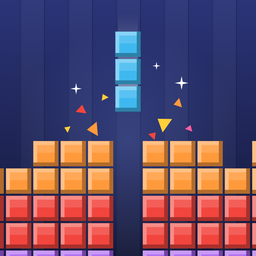
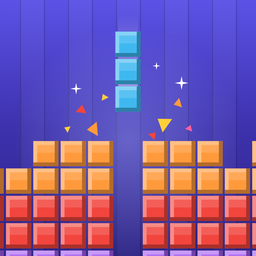
Restyle the site to match the game's new look
Violet sky, rounded Fredoka/Nunito type, yellow pill buttons and the new
icon and splash art. Updated feature list (Daily Dig, helpers, bombs) and
the list of things the game stores on the phone.

diff --git a/style.css b/style.css
@@ -1,78 +1,90 @@
-/* Alvan's Studio: deep navy "night dig" look from Block Crumble's Candy style. One dark theme by choice. */
+/* Alvan's Studio: the same cute look as Block Crumble. Bright violet sky, frosted rounded cards,
+   sunny yellow accents, rounded Fredoka/Nunito type. One bright theme by choice. */
 :root {
-  --bg: #151940;
-  --bg-2: #1d2356;
-  --panel: #232a63;
-  --line: #343d82;
-  --fg: #eef0ff;
-  --muted: #aab0dc;
+  --sky-top: #5b52e6;
+  --sky-mid: #3d31ad;
+  --bg: #2c2484;
+  --card: rgba(255,255,255,.12);
+  --card-strong: rgba(255,255,255,.2);
+  --line: rgba(255,255,255,.28);
+  --fg: #ffffff;
+  --muted: rgba(255,255,255,.78);
   --gold: #ffd84d;
-  --orange: #ff9a3c;
-  --red: #f2453d;
-  --purple: #a65cf0;
-  --font-display: 'Silkscreen', 'Courier New', monospace;
-  --font-body: 'Chakra Petch', 'Segoe UI', system-ui, sans-serif;
+  --gold-dark: #d1870f;
+  --pink: #ff6a9c;
+  --font-display: 'Fredoka', 'Nunito', system-ui, sans-serif;
+  --font-body: 'Nunito', system-ui, sans-serif;
   color-scheme: dark;
 }
 *, *::before, *::after { box-sizing: border-box; }
 html { background: var(--bg); }
 body {
-  margin: 0; min-height: 100vh; color: var(--fg); font: 16px/1.6 var(--font-body);
-  background: linear-gradient(180deg, var(--bg-2) 0%, var(--bg) 420px) var(--bg);
+  margin: 0; min-height: 100vh; color: var(--fg); font: 600 16px/1.6 var(--font-body);
+  background:
+    radial-gradient(110% 50% at 50% 0%, rgba(150,160,255,.5) 0%, rgba(150,160,255,0) 60%),
+    linear-gradient(180deg, var(--sky-top) 0%, var(--sky-mid) 420px, var(--bg) 900px) var(--bg);
 }
-a { color: var(--gold); }
-a:focus-visible, button:focus-visible { outline: 2px solid var(--gold); outline-offset: 3px; }
+a { color: var(--gold); font-weight: 800; }
+a:focus-visible, button:focus-visible { outline: 3px solid var(--gold); outline-offset: 3px; border-radius: 6px; }
 .wrap { max-width: 760px; margin: 0 auto; padding-left: max(16px, env(safe-area-inset-left, 0px)); padding-right: max(16px, env(safe-area-inset-right, 0px)); }
 
-header.site { padding-block: 18px; border-bottom: 1px solid var(--line); }
+header.site { padding-block: 16px; }
 header.site .wrap { display: flex; align-items: center; justify-content: space-between; gap: 16px; flex-wrap: wrap; }
-.logo { font: 700 18px var(--font-display); color: var(--fg); text-decoration: none; letter-spacing: .04em; }
+.logo { font: 700 21px var(--font-display); color: var(--fg); text-decoration: none; text-shadow: 0 2px 0 rgba(0,0,0,.18); }
 .logo span { color: var(--gold); }
-nav.site { display: flex; gap: 18px; font-size: 14px; }
-nav.site a { color: var(--muted); text-decoration: none; }
-nav.site a:hover, nav.site a[aria-current="page"] { color: var(--fg); }
+nav.site { display: flex; gap: 6px; font-size: 14px; }
+nav.site a { color: var(--fg); text-decoration: none; font-weight: 800; padding: 6px 12px; border-radius: 999px; background: var(--card); }
+nav.site a:hover { background: var(--card-strong); }
+nav.site a[aria-current="page"] { background: var(--gold); color: #4a2c00; }
 
-main { padding-block: 40px 56px; }
-h1, h2, h3 { font-family: var(--font-display); font-weight: 700; line-height: 1.15; text-wrap: balance; letter-spacing: .02em; }
-h1 { font-size: clamp(28px, 6vw, 44px); margin: 0 0 12px; }
-h2 { font-size: 20px; margin: 36px 0 8px; color: var(--gold); }
-h3 { font-size: 15px; margin: 22px 0 6px; }
+main { padding-block: 32px 56px; }
+h1, h2, h3 { font-family: var(--font-display); font-weight: 700; line-height: 1.1; text-wrap: balance; }
+h1 { font-size: clamp(34px, 8vw, 54px); margin: 0 0 12px; text-shadow: 0 4px 0 rgba(0,0,0,.16); }
+h1 .hl { color: var(--gold); }
+h2 { font-size: 24px; margin: 36px 0 10px; color: var(--gold); }
+h3 { font-size: 17px; margin: 22px 0 6px; }
 p, li { max-width: 65ch; }
 .lead { font-size: 18px; color: var(--muted); margin-top: 0; }
-.eyebrow { font: 700 12px var(--font-display); color: var(--orange); letter-spacing: .12em; text-transform: uppercase; margin: 0 0 8px; }
+.eyebrow { display: inline-block; font: 800 12px var(--font-body); letter-spacing: .12em; text-transform: uppercase; margin: 0 0 12px; padding: 4px 12px; border-radius: 999px; background: var(--card); color: var(--gold); }
 
-/* the layered "wall" strip: the studio's signature detail */
-.strata { height: 18px; display: grid; grid-template-columns: repeat(16, 1fr); gap: 2px; margin-block: 28px; }
-.strata i { display: block; border-radius: 2px; background: var(--c); box-shadow: inset 0 3px 0 rgba(255,255,255,.25), inset 0 -3px 0 rgba(0,0,0,.25); }
+/* a strip of candy blocks: the studio's signature detail */
+.strata { height: 22px; display: grid; grid-template-columns: repeat(16, 1fr); gap: 3px; margin-block: 28px; }
+.strata i { display: block; border-radius: 5px; background: var(--c); box-shadow: inset 0 4px 0 rgba(255,255,255,.3), inset 0 -4px 0 rgba(0,0,0,.2); }
 .strata i.gap { background: transparent; box-shadow: none; }
 
 .game {
   display: grid; grid-template-columns: 112px minmax(0, 1fr); gap: 20px; align-items: center;
-  background: var(--panel); border-radius: 14px; padding: 18px; text-decoration: none; color: var(--fg);
-  box-shadow: 0 0 0 1px var(--line);
+  background: var(--card); border-radius: 26px; padding: 18px; text-decoration: none; color: var(--fg);
+  box-shadow: inset 0 1px 0 rgba(255,255,255,.2), 0 14px 30px rgba(15,5,70,.3);
+  transition: transform .15s;
 }
-.game:hover { box-shadow: 0 0 0 2px var(--gold); }
-.game img { width: 112px; height: 112px; border-radius: 24px; }
+.game:hover { transform: translateY(-2px); background: var(--card-strong); }
+.game img { width: 112px; height: 112px; border-radius: 26px; box-shadow: 0 6px 16px rgba(0,0,0,.3); }
 .game h2 { margin: 0 0 4px; color: var(--fg); }
 .game p { margin: 0; color: var(--muted); }
-.tag { display: inline-block; font: 700 11px var(--font-display); letter-spacing: .08em; padding: 3px 8px; border-radius: 4px; background: var(--gold); color: #2a1d05; margin-top: 10px; }
+.tag {
+  display: inline-block; font: 700 13px var(--font-display); letter-spacing: .03em; padding: 6px 14px; border-radius: 999px;
+  background: linear-gradient(180deg, #ffe678, #ffc43d); color: #4a2c00; box-shadow: 0 3px 0 var(--gold-dark); margin-top: 12px;
+}
 
-.hero { display: grid; grid-template-columns: minmax(0, 1fr) 210px; gap: 32px; align-items: center; }
-.hero img { width: 100%; border-radius: 18px; box-shadow: 0 18px 40px rgba(0,0,0,.45); }
-.facts { display: grid; grid-template-columns: repeat(auto-fit, minmax(150px, 1fr)); gap: 12px; padding: 0; list-style: none; }
-.facts li { background: var(--panel); border-radius: 10px; padding: 12px 14px; box-shadow: 0 0 0 1px var(--line); }
-.facts b { display: block; font: 700 12px var(--font-display); color: var(--gold); letter-spacing: .06em; margin-bottom: 2px; }
+.hero { display: grid; grid-template-columns: minmax(0, 1fr) 220px; gap: 32px; align-items: center; }
+.hero img { width: 100%; border-radius: 28px; box-shadow: 0 18px 40px rgba(10,0,60,.45); }
+.facts { display: grid; grid-template-columns: repeat(auto-fit, minmax(160px, 1fr)); gap: 12px; padding: 0; list-style: none; }
+.facts li { background: var(--card); border-radius: 20px; padding: 14px 16px; box-shadow: inset 0 1px 0 rgba(255,255,255,.18); color: var(--muted); }
+.facts b { display: block; font: 700 17px var(--font-display); color: var(--fg); margin-bottom: 2px; }
+.facts b i { font-style: normal; margin-right: 4px; }
 
-.policy h2 { font-size: 17px; }
+.policy h2 { font-size: 20px; }
 .policy .meta { color: var(--muted); font-size: 14px; }
-.callout { background: var(--panel); border-left: 4px solid var(--gold); border-radius: 6px; padding: 12px 16px; margin-block: 18px; }
+.callout { background: var(--card); border-radius: 20px; padding: 14px 18px; margin-block: 18px; box-shadow: inset 4px 0 0 var(--gold); }
 
-footer.site { border-top: 1px solid var(--line); padding-block: 22px 32px; color: var(--muted); font-size: 14px; }
+footer.site { padding-block: 22px 32px; color: var(--muted); font-size: 14px; border-top: 1px solid var(--line); }
 footer.site .wrap { display: flex; justify-content: space-between; gap: 12px; flex-wrap: wrap; }
 
 @media (max-width: 560px) {
   .hero { grid-template-columns: 1fr; }
-  .hero img { max-width: 220px; justify-self: center; }
-  .game { grid-template-columns: 72px minmax(0, 1fr); gap: 14px; }
-  .game img { width: 72px; height: 72px; border-radius: 16px; }
+  .hero img { max-width: 230px; justify-self: center; }
+  .game { grid-template-columns: 76px minmax(0, 1fr); gap: 14px; }
+  .game img { width: 76px; height: 76px; border-radius: 18px; }
 }
+@media (prefers-reduced-motion: reduce) { .game { transition: none; } }

diff --git a/block-crumble/index.html b/block-crumble/index.html
@@ -8,7 +8,7 @@
 <link rel="icon" href="../img/block-crumble-icon.png">
 <link rel="preconnect" href="https://fonts.googleapis.com">
 <link rel="preconnect" href="https://fonts.gstatic.com" crossorigin>
-<link rel="stylesheet" href="https://fonts.googleapis.com/css2?family=Silkscreen:wght@400;700&family=Chakra+Petch:wght@400;600;700&display=swap">
+<link rel="stylesheet" href="https://fonts.googleapis.com/css2?family=Fredoka:wght@500;600;700&family=Nunito:wght@600;700;800&display=swap">
 <link rel="stylesheet" href="../style.css">
 </head>
 <body>
@@ -22,7 +22,7 @@
     <div>
       <p class="eyebrow">A falling-block digging puzzle</p>
       <h1>Block Crumble™</h1>
-      <p class="lead">Dig through a wall of colored layers. Drop a bar into the shaft, clear a stack of lines at once, and watch every loose block tumble into the gaps below for a chain reaction.</p>
+      <p class="lead">Dig through a wall of candy-colored layers. Drop a bar into the shaft, clear a stack of lines at once, blast bombs, and watch every loose block tumble into the gaps below for a chain reaction.</p>
       <span class="tag">COMING SOON TO GOOGLE PLAY</span>
     </div>
     <img src="../img/block-crumble-splash.png" alt="Block Crumble title screen: a layered wall of orange, red and purple blocks with a blue bar dropping into a shaft" width="420" height="750">
@@ -30,12 +30,14 @@
 
   <h2>What's inside</h2>
   <ul class="facts">
-    <li><b>STAGES</b>A stage map that winds down into the ground, with up to 3 stars per stage.</li>
-    <li><b>WEEKLY</b>A new challenge wall every Monday, the same for every player.</li>
-    <li><b>SPECIAL BLOCKS</b>Bombs that blast their neighbors and stones that need two clears.</li>
-    <li><b>RELAX OR RUSH</b>Take your time, or race a screen that keeps scrolling down.</li>
-    <li><b>STYLES</b>Unlock new block styles every 10 stages.</li>
-    <li><b>FAIR ADS</b>No banners. Optional ads only, plus a one-time purchase to remove them.</li>
+    <li><b><i>🗺</i>Stage map</b>Dig deeper stage by stage and collect up to 3 stars on each.</li>
+    <li><b><i>🔥</i>Daily Dig</b>A new wall every day. Keep your streak going for free helpers.</li>
+    <li><b><i>🏆</i>Weekly challenge</b>The same wall for every player, new every Monday.</li>
+    <li><b><i>💣</i>Bombs &amp; stones</b>Land next to a bomb for a big blast; stones need two hits.</li>
+    <li><b><i>❄</i>Helpers</b>Slow down, freeze time or drop a bomb when you need a hand.</li>
+    <li><b><i>🎵</i>Relax or Rush</b>Take your time, or race a screen that keeps scrolling.</li>
+    <li><b><i>🍬</i>Styles</b>Unlock new block styles every 10 stages.</li>
+    <li><b><i>🙂</i>Fair ads</b>No banners. Optional ads only, and a one-time purchase removes them.</li>
   </ul>
 
   <h2>Support</h2>

diff --git a/index.html b/index.html
@@ -8,7 +8,7 @@
 <link rel="icon" href="img/block-crumble-icon.png">
 <link rel="preconnect" href="https://fonts.googleapis.com">
 <link rel="preconnect" href="https://fonts.gstatic.com" crossorigin>
-<link rel="stylesheet" href="https://fonts.googleapis.com/css2?family=Silkscreen:wght@400;700&family=Chakra+Petch:wght@400;600;700&display=swap">
+<link rel="stylesheet" href="https://fonts.googleapis.com/css2?family=Fredoka:wght@500;600;700&family=Nunito:wght@600;700;800&display=swap">
 <link rel="stylesheet" href="style.css">
 </head>
 <body>
@@ -19,18 +19,18 @@
 
 <main class="wrap">
   <p class="eyebrow">Independent games · Malaysia</p>
-  <h1>Small games, made with care.</h1>
+  <h1>Small games, <span class="hl">made with care.</span></h1>
   <p class="lead">Alvan's Studio is a one-person studio making short-session games that respect your time: minimal ads, no tricks, real gameplay.</p>
 
   <div class="strata" aria-hidden="true">
-    <i style="--c:var(--orange)"></i><i style="--c:var(--orange)"></i><i style="--c:var(--orange)"></i><i style="--c:var(--orange)"></i><i style="--c:var(--orange)"></i><i style="--c:var(--orange)"></i><i style="--c:var(--orange)"></i><i class="gap"></i><i style="--c:var(--red)"></i><i style="--c:var(--red)"></i><i style="--c:var(--red)"></i><i style="--c:var(--purple)"></i><i style="--c:var(--purple)"></i><i style="--c:var(--purple)"></i><i style="--c:var(--purple)"></i><i style="--c:var(--purple)"></i>
+    <i style="--c:#ff9a3c"></i><i style="--c:#ff9a3c"></i><i style="--c:#ff9a3c"></i><i style="--c:#ff9a3c"></i><i style="--c:#ff9a3c"></i><i style="--c:#ff9a3c"></i><i style="--c:#ff9a3c"></i><i class="gap"></i><i style="--c:#f2453d"></i><i style="--c:#f2453d"></i><i style="--c:#f2453d"></i><i style="--c:#a65cf0"></i><i style="--c:#a65cf0"></i><i style="--c:#ff5fa2"></i><i style="--c:#ff5fa2"></i><i style="--c:#3fb8f0"></i>
   </div>
 
   <a class="game" href="block-crumble/">
     <img src="img/block-crumble-icon.png" alt="Block Crumble app icon" width="112" height="112">
     <div>
       <h2>Block Crumble™</h2>
-      <p>Dig down through a wall of blocks. Fill the shafts, let loose blocks fall into the gaps, and set off chain reactions all the way to the ground.</p>
+      <p>A cute digging puzzle: drop blocks into the shafts, blast bombs, and set off chain reactions all the way to the ground.</p>
       <span class="tag">COMING SOON TO GOOGLE PLAY</span>
     </div>
   </a>

diff --git a/block-crumble/privacy/index.html b/block-crumble/privacy/index.html
@@ -8,7 +8,7 @@
 <link rel="icon" href="../../img/block-crumble-icon.png">
 <link rel="preconnect" href="https://fonts.googleapis.com">
 <link rel="preconnect" href="https://fonts.gstatic.com" crossorigin>
-<link rel="stylesheet" href="https://fonts.googleapis.com/css2?family=Silkscreen:wght@400;700&family=Chakra+Petch:wght@400;600;700&display=swap">
+<link rel="stylesheet" href="https://fonts.googleapis.com/css2?family=Fredoka:wght@500;600;700&family=Nunito:wght@600;700;800&display=swap">
 <link rel="stylesheet" href="../../style.css">
 </head>
 <body>
@@ -20,7 +20,7 @@
 <main class="wrap policy">
   <p class="eyebrow">Block Crumble</p>
   <h1>Privacy Policy</h1>
-  <p class="meta">Effective date: 18 November 2026</p>
+  <p class="meta">Effective date: 20 November 2026</p>
 
   <p>Block Crumble ("the game") is made by Alvan's Studio ("we", "us"). This policy explains what information the game uses, why, and the choices you have.</p>
 
@@ -30,7 +30,7 @@
   <p>The game saves the following on your phone only:</p>
   <ul>
     <li>settings: sound, music, block style, difficulty and effects;</li>
-    <li>progress: stages reached, stars and best scores;</li>
+    <li>progress: stages reached, stars and best scores, your Daily Dig streak and your helpers;</li>
     <li>the name you type for the weekly scoreboard, and the scores on that scoreboard;</li>
     <li>whether you own "Remove ads".</li>
   </ul>
